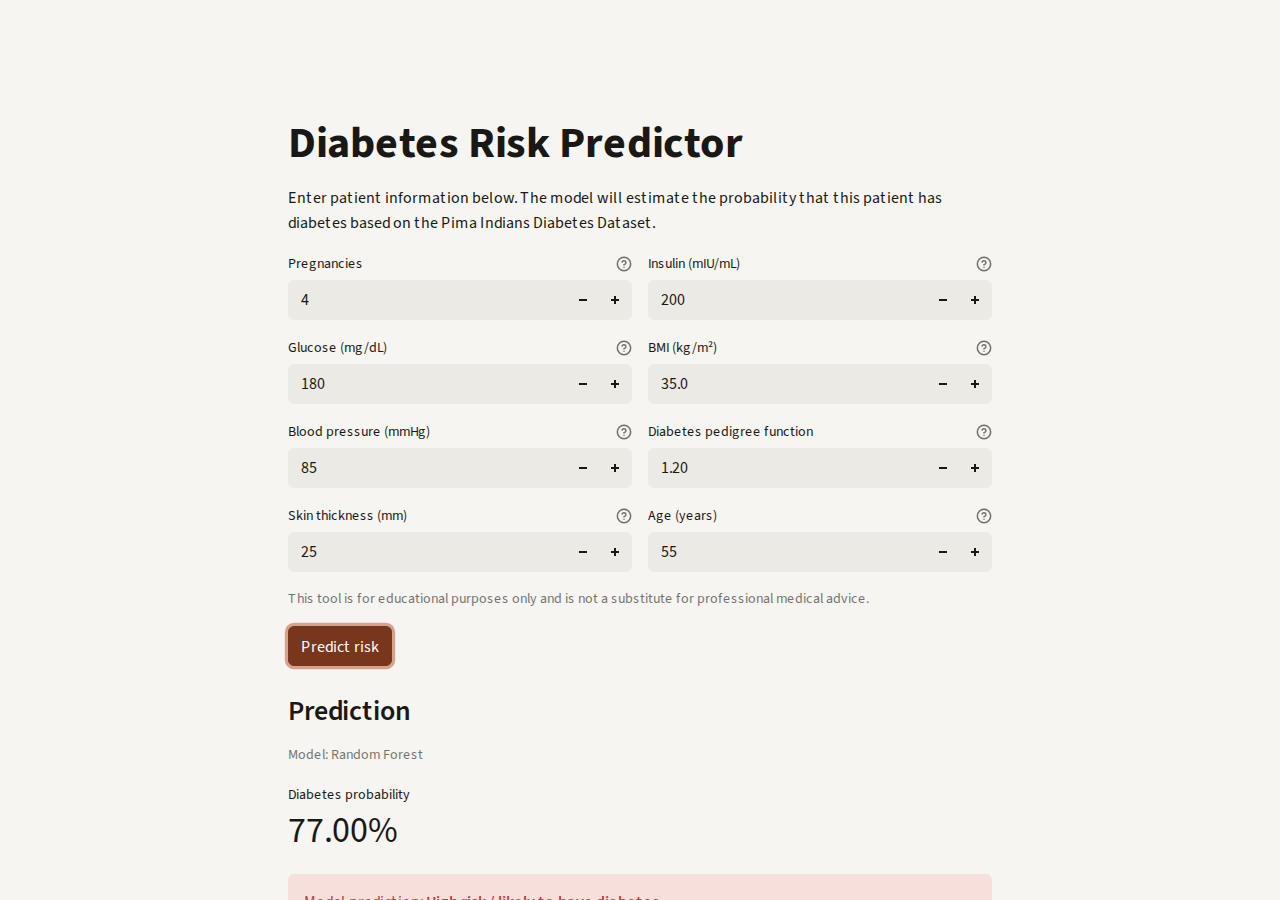
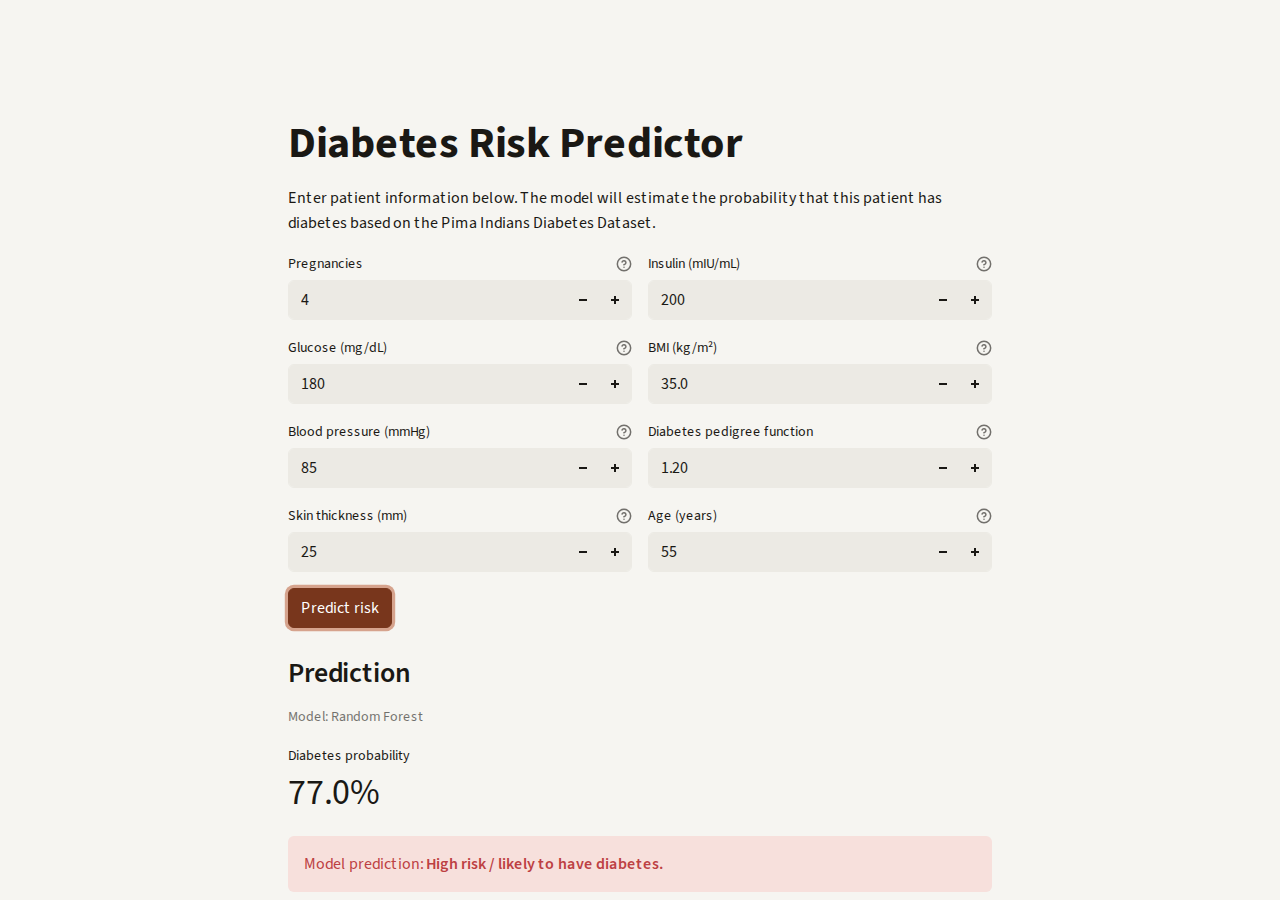
Design tidy-ups: single disclaimer, one-decimal probability display
Remove pre-button disclaimer; show probability as XX.X%; README Features copy.

Changed region(s): [[0.2188, 0.6222, 0.6875, 0.9644], [0.2188, 0.9956, 0.5, 1.0]]

diff --git a/app.py b/app.py
@@ -117,11 +117,6 @@ with col2:
         help="Age in years.",
     )
 
-st.caption(
-    "This tool is for educational purposes only and is not a substitute for "
-    "professional medical advice."
-)
-
 if st.button("Predict risk", type="primary"):
     input_values = [
         pregnancies,
@@ -145,7 +140,7 @@ if st.button("Predict risk", type="primary"):
     probability_pct = prob_diabetes * 100.0
     st.metric(
         label="Diabetes probability",
-        value=f"{probability_pct:.2f}%",
+        value=f"{probability_pct:.1f}%",
         delta=None,
     )
 

diff --git a/README.md b/README.md
@@ -12,7 +12,7 @@ The free host may sleep when idle; the first visit can take about 30 seconds to 
 ## Features
 
 - Interactive web UI for clinical metrics
-- Real-time diabetes risk probability from a trained Random Forest
+- Instant diabetes-risk probability from a trained Random Forest
 - Additional models trained in the notebook (Logistic Regression, Neural Network) for offline comparison
 - Deployed demo · educational use
 - Open source with trained model artifacts included
